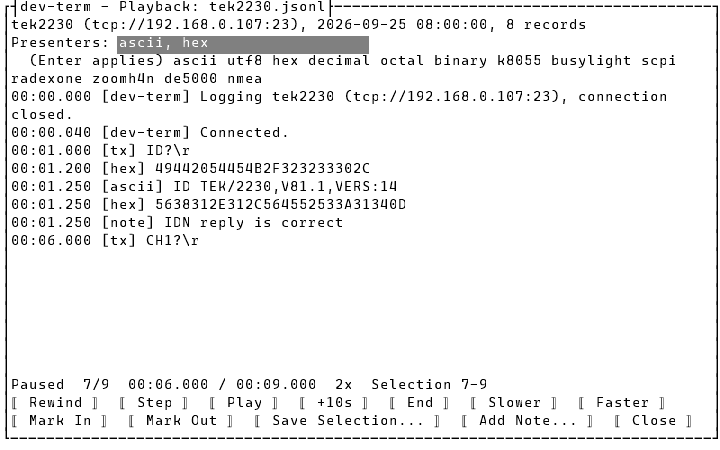
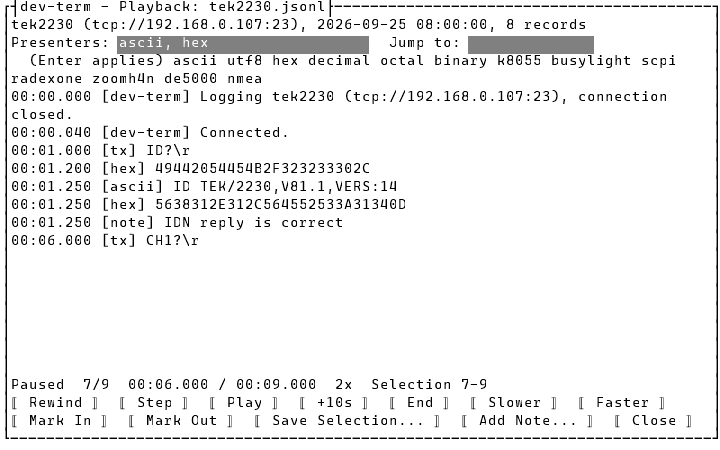
Add a Jump to field (record number or log time) to the TUI Playback window

Changed region(s): [[0.6417, 0.0622, 0.825, 0.1244], [0.55, 0.0933, 0.5806, 0.1244]]

diff --git a/src/DevTerm.Console/PlaybackMode.cs b/src/DevTerm.Console/PlaybackMode.cs
@@ -105,6 +105,8 @@ public static class PlaybackMode
             Width = 28,
             Text = string.Join(", ", controller.Presenters),
         };
+        var jumpLabel = new Label { X = Pos.Right(presentersField) + 2, Y = 1, Text = "Jump to:" };
+        var jumpField = new TextField { X = Pos.Right(jumpLabel) + 1, Y = 1, Width = 14 };
         var availableLabel = new Label
         {
             X = 0,
@@ -259,8 +261,14 @@ public static class PlaybackMode
             e.Handled = true;
         };
 
+        jumpField.Accepting += (_, e) =>
+        {
+            Do(() => controller.JumpTo(jumpField.Text));
+            e.Handled = true;
+        };
+
         window.Add(
-            description, presentersLabel, presentersField, availableLabel, output, positionLabel,
+            description, presentersLabel, presentersField, jumpLabel, jumpField, availableLabel, output, positionLabel,
             rewindButton, stepButton, playButton, forwardButton, endButton, slowerButton, fasterButton,
             markInButton, markOutButton, saveButton, noteButton, closeButton);
 
@@ -279,7 +287,7 @@ public static class PlaybackMode
             }
         }
 
-        return new PlaybackWindowParts(window, controller, output, positionLabel, presentersField, playButton, Pump, Do);
+        return new PlaybackWindowParts(window, controller, output, positionLabel, presentersField, jumpField, playButton, Pump, Do);
     }
 
     /// <summary>A small modal asking for one line of text; <see langword="null"/> if cancelled.</summary>
@@ -322,4 +330,4 @@ public static class PlaybackMode
 }
 
 /// <summary>The Playback window's controls, for tests: <see cref="Pump"/> is one timer tick; <see cref="Do"/> runs an action and renders its batch, exactly as a button does.</summary>
-internal sealed record PlaybackWindowParts(Window Window, PlaybackController Controller, Editor Output, Label PositionLabel, TextField PresentersField, Button PlayButton, Action Pump, Action<Func<PlaybackBatch>> Do);
+internal sealed record PlaybackWindowParts(Window Window, PlaybackController Controller, Editor Output, Label PositionLabel, TextField PresentersField, TextField JumpField, Button PlayButton, Action Pump, Action<Func<PlaybackBatch>> Do);

diff --git a/src/DevTerm.Logging/Playback/PlaybackText.cs b/src/DevTerm.Logging/Playback/PlaybackText.cs
@@ -72,6 +72,56 @@ public static class PlaybackText
         return batch.Items.SelectMany(Lines);
     }
 
+    /// <summary>
+    /// Parses what a jump field accepts: a plain whole number is a record position (0 to the record count),
+    /// anything with a colon is a log time as <c>m:ss</c>, <c>m:ss.fff</c> or <c>h:mm:ss.fff</c> (the same shape
+    /// <see cref="FormatOffset"/> prints). Returns <see langword="false"/> for anything else, never throws.
+    /// </summary>
+    public static bool TryParseJump(string? text, out int? record, out TimeSpan? time)
+    {
+        record = null;
+        time = null;
+        var trimmed = text?.Trim();
+        if (string.IsNullOrEmpty(trimmed))
+        {
+            return false;
+        }
+
+        if (!trimmed.Contains(':', StringComparison.Ordinal))
+        {
+            if (int.TryParse(trimmed, NumberStyles.None, CultureInfo.InvariantCulture, out var position))
+            {
+                record = position;
+                return true;
+            }
+
+            return false;
+        }
+
+        var parts = trimmed.Split(':');
+        if (parts.Length is < 2 or > 3
+            || !int.TryParse(parts[^2], NumberStyles.None, CultureInfo.InvariantCulture, out var minutes)
+            || !decimal.TryParse(parts[^1], NumberStyles.AllowDecimalPoint, CultureInfo.InvariantCulture, out var seconds)
+            || seconds >= 60)
+        {
+            return false;
+        }
+
+        var hours = 0;
+        if (parts.Length == 3 && !int.TryParse(parts[0], NumberStyles.None, CultureInfo.InvariantCulture, out hours))
+        {
+            return false;
+        }
+
+        if (parts.Length == 3 && minutes >= 60)
+        {
+            return false;
+        }
+
+        time = TimeSpan.FromHours(hours) + TimeSpan.FromMinutes(minutes) + TimeSpan.FromMilliseconds((double)(seconds * 1000m));
+        return true;
+    }
+
     public static string FormatOffset(TimeSpan offset) =>
         offset.TotalHours >= 1
             ? $"{((int)offset.TotalHours).ToString(CultureInfo.InvariantCulture)}:{offset.ToString(@"mm\:ss\.fff", CultureInfo.InvariantCulture)}"

diff --git a/tests/DevTerm.Logging.Tests/PlaybackControllerTests.cs b/tests/DevTerm.Logging.Tests/PlaybackControllerTests.cs
@@ -58,6 +58,45 @@ public sealed class PlaybackControllerTests
     }
 
     [TestMethod]
+    public void JumpTo_ARecordNumber_SeeksToThatPosition_AndClampsPastTheEnd()
+    {
+        var controller = Open();
+
+        controller.JumpTo("4");
+        Assert.AreEqual(4, controller.Engine.Position);
+
+        controller.JumpTo("99");
+        Assert.AreEqual(6, controller.Engine.Position);
+
+        var back = controller.JumpTo("1");
+        Assert.IsTrue(back.Reset, "A backward jump replays from the start.");
+        Assert.AreEqual(1, controller.Engine.Position);
+    }
+
+    [TestMethod]
+    public void JumpTo_ATime_PlaysEveryRecordAtOrBeforeIt()
+    {
+        var controller = Open();
+
+        controller.JumpTo("0:02.5");
+        Assert.AreEqual(3, controller.Engine.Position, "Records at 0, 1 and 2 seconds are at or before 2.5 s.");
+
+        controller.JumpTo("0:05");
+        Assert.AreEqual(6, controller.Engine.Position);
+    }
+
+    [TestMethod]
+    public void JumpTo_Gibberish_ThrowsAFormatExceptionNamingTheText()
+    {
+        var controller = Open();
+
+        var ex = Assert.Throws<FormatException>(() => controller.JumpTo("soon"));
+
+        Assert.Contains("'soon'", ex.Message);
+        Assert.AreEqual(0, controller.Engine.Position, "A rejected jump doesn't move.");
+    }
+
+    [TestMethod]
     public void SetPresenters_IgnoresUnknownNames_AndReplaysThroughTheNewOnes()
     {
         var controller = Open();

diff --git a/tests/DevTerm.Console.Tests/PlaybackModeTests.cs b/tests/DevTerm.Console.Tests/PlaybackModeTests.cs
@@ -3,6 +3,7 @@ using DevTerm.Configuration;
 using DevTerm.Logging;
 using DevTerm.Logging.Playback;
 using DevTerm.Test.Utilities;
+using Terminal.Gui.Input;
 
 namespace DevTerm.Console.Tests;
 
@@ -143,6 +144,23 @@ public sealed class PlaybackModeTests
             Assert.AreEqual("hex, ascii", parts.PresentersField.Text);
             Assert.Contains("[hex] 49442054454B2F323233302C", parts.Output.Text);
             Assert.StartsWith("Paused  4/8", parts.PositionLabel.Text);
+        });
+    }
+
+    [TestMethod]
+    public void JumpField_AcceptingARecordNumber_SeeksThere_AndATimeJumpPlaysUpToIt()
+    {
+        var controller = new PlaybackPresenters().Open(WriteSampleLog(_directory), new ManualTimeProvider());
+
+        RunWindow(controller, parts =>
+        {
+            parts.JumpField.Text = "4";
+            parts.JumpField.InvokeCommand(Command.Accept);
+
+            Assert.StartsWith("Paused  4/8", parts.PositionLabel.Text);
+
+            parts.Do(() => controller.JumpTo("0:00.000"));
+            Assert.StartsWith("Paused  1/8", parts.PositionLabel.Text, "A time jump plays every record at or before it.");
         });
     }
 

diff --git a/tests/DevTerm.Logging.Tests/PlaybackTextTests.cs b/tests/DevTerm.Logging.Tests/PlaybackTextTests.cs
@@ -24,6 +24,31 @@ public sealed class PlaybackTextTests
     }
 
     [TestMethod]
+    [DataRow("120", 120, null)]
+    [DataRow("  7 ", 7, null)]
+    [DataRow("1:23", null, 83000)]
+    [DataRow("0:02.5", null, 2500)]
+    [DataRow("1:02:03.250", null, 3723250)]
+    public void TryParseJump_ReadsRecordNumbersAndTimes(string text, int? record, int? timeMs)
+    {
+        Assert.IsTrue(PlaybackText.TryParseJump(text, out var parsedRecord, out var parsedTime));
+        Assert.AreEqual(record, parsedRecord);
+        Assert.AreEqual(timeMs is { } ms ? TimeSpan.FromMilliseconds(ms) : null, parsedTime);
+    }
+
+    [TestMethod]
+    [DataRow("")]
+    [DataRow("  ")]
+    [DataRow("-3")]
+    [DataRow("abc")]
+    [DataRow("1:75")]
+    [DataRow("1:2:3:4")]
+    [DataRow("1:61:00")]
+    [DataRow("x:10")]
+    public void TryParseJump_RejectsAnythingElse(string text) =>
+        Assert.IsFalse(PlaybackText.TryParseJump(text, out _, out _));
+
+    [TestMethod]
     public void FormatOffset_UnderOneHour_UsesMinutesAndSeconds()
     {
         var text = PlaybackText.FormatOffset(new TimeSpan(0, 0, 1, 2, 300));

diff --git a/src/DevTerm.Logging/Playback/PlaybackController.cs b/src/DevTerm.Logging/Playback/PlaybackController.cs
@@ -133,6 +133,17 @@ public sealed class PlaybackController
 
     public PlaybackBatch SeekTo(int position) => Engine.SeekTo(position);
 
+    /// <summary>Jumps to what <see cref="PlaybackText.TryParseJump"/> accepts: a record position or a log time. Throws <see cref="FormatException"/> for text it can't read.</summary>
+    public PlaybackBatch JumpTo(string text)
+    {
+        if (!PlaybackText.TryParseJump(text, out var record, out var time))
+        {
+            throw new FormatException($"'{text}' isn't a record number (e.g. 120) or a time (e.g. 1:23.5).");
+        }
+
+        return record is { } position ? Engine.SeekTo(position) : Engine.SeekToTime(time!.Value);
+    }
+
     public void SetSpeed(PlaybackSpeed speed)
     {
         ArgumentNullException.ThrowIfNull(speed);

diff --git a/src/DevTerm.Logging/Playback/PlaybackEngine.cs b/src/DevTerm.Logging/Playback/PlaybackEngine.cs
@@ -220,6 +220,18 @@ public sealed class PlaybackEngine
         return new PlaybackBatch(reset, items);
     }
 
+    /// <summary>Seeks to the first position whose next record is later than <paramref name="offset"/>, i.e. plays every record at or before that log time. Backward works like <see cref="SeekTo"/>.</summary>
+    public PlaybackBatch SeekToTime(TimeSpan offset)
+    {
+        var position = 0;
+        while (position < Count && Log.OffsetOf(position) <= offset)
+        {
+            position++;
+        }
+
+        return SeekTo(position);
+    }
+
     /// <summary>Skips ahead <paramref name="amount"/> of log time, playing every record in that span instantly.</summary>
     public PlaybackBatch FastForward(TimeSpan amount)
     {

diff --git a/docs/specs/playback-window.md b/docs/specs/playback-window.md
@@ -34,6 +34,7 @@ warning is its first output line.
 | Output | TUI: read-only `Editor`, last 300 lines. WPF: `ListBox` of `PlaybackLine`, last 1000 | `{mm:ss.fff} [{source}] {text}` per line, where the offset is from the first record. `[ascii]`/`[hex]`/… is received data as that presenter rendered it. `[tx]` is sent bytes, escaped (`\r`, `\n`, `\t`, `\\`, `\xNN`). `[dev-term]` is an event (`Connected.`, `Disconnected.`, `Logging {connection}, connection open` or `closed`). `[error]` is a lost connection or a presenter failure. `[note]` is a note. WPF colors them by theme role: sent in `accent` (steel blue in Light), events italic in `outputStatus`, errors in `outputError`, notes bold in `warning` (see [`docs/design/theming.md`](../design/theming.md)) |
 | Position | Label | `{Playing/Paused/End}  {position}/{count}  {elapsed} / {duration}  {speed}  Selection {in}–{out}`. The position is how many records have played |
 | Seek slider | WPF only, `0`–`count` | Dragging or clicking seeks (see **Seek**) |
+| Jump to | TUI only: text field right of Presenters | A record number (`120`) or a log time (`1:23`, `0:02.5`, `1:02:03.250`). Enter jumps. Anything else shows an error dialog and doesn't move |
 | Speed | TUI: **Slower**/**Faster** buttons stepping through the list. WPF: a combo box | 0.25x, 0.5x, **1x** (default), 2x, 10x, Max |
 | Note | WPF only: a text box next to **Add Note** | Enter adds it. The TUI prompts instead |
 
@@ -47,6 +48,7 @@ warning is its first output line.
 | **+10s** (fast-forward) | Plays everything in the next 10 s of log time instantly, and always at least one record | n/a |
 | **End** | Plays everything that's left instantly, then pauses | n/a |
 | **Seek** (WPF slider) | Forward plays the records in between instantly. Backward clears the output and replays from 0. Either way, stateful presenters end up exactly where live capture left them | n/a |
+| **Jump to** (TUI field) | A record number seeks to that position; a time plays every record at or before that log time. Forward plays the records in between instantly; backward clears and replays from 0, like **Seek** | Unreadable text shows an error dialog; the position is unchanged |
 | **Presenters** (TUI: edit + Enter; WPF: tick/untick) | Clears the output and replays up to the current position through the new set | Unknown names are ignored. An empty choice keeps the current set |
 | **Speed** | Applies from now on. Progress through the current gap is kept | n/a |
 | **Mark In** | The trim selection starts at the current position (the next record to play) | n/a |
@@ -84,4 +86,4 @@ warning is its first output line.
 - Notes can be added but not edited or deleted here.
 - No "skip silence" (capping long idle gaps) yet.
 - Backward seeks replay from the start, so they get slower as the log grows.
-- The TUI has no seek control besides Rewind/+10s/End/Step. **Decided 2026-10-03:** add a jump-to-time-or-record field. Not built yet.
+- ~~The TUI has no seek control besides Rewind/+10s/End/Step.~~ Added 2026-10-03: the **Jump to** field.

diff --git a/docs/changes/2026-10-03.md b/docs/changes/2026-10-03.md
@@ -235,3 +235,7 @@ The user reported TDS2024 `HARDCopy` giving a BMP, a DG1062Z screen capture, Bus
 ## Connection Editor shows the device manifest and SCPI auto-detect timeout
 
 The two saved-profile settings the editor used to carry over untouched are now fields (decided 2026-10-03): **Device manifest** (General, free text, blank means none) and **SCPI auto-detect timeout (ms)** (Presentation, integer 100 to 60000, shown only when the SCPI presenter is selected). Both go through the generated form, so the TUI and WPF pick them up with no front-end code; `BuildOptions` now writes them instead of copying the loaded values, and `Validate` rejects a non-numeric timeout. New test `ManifestNameAndScpiAutoDetectTimeout_RoundTripThroughTheFields`; the form-layout test expectations were updated. Configuration tests 486 pass, console unit tests 420 pass. The TUI configure screenshots were regenerated (image-diff showed only the new row, plus the older vxi11 option the baselines predated). Not done: the WPF tests and screenshots, because a running `DevTerm.Wpf.exe` locks the build output; they will regenerate next run. `tui-main-logging.png` also differed by 1,321 pixels in one band (not from this change), and was left at its committed version.
+
+## TUI Playback jump-to-time-or-record field
+
+The Playback window has a **Jump to** field beside Presenters (decided 2026-10-03). A plain number seeks to that record position; `m:ss`, `m:ss.fff` or `h:mm:ss.fff` plays every record at or before that log time (`PlaybackText.TryParseJump`, `PlaybackEngine.SeekToTime`, `PlaybackController.JumpTo`). Unreadable text raises `FormatException`, which the window shows in its normal error dialog. Tests: 3 controller, 2 parse (data-driven), 1 window. `tui-playback.png`/`.txt` regenerated; `image_diff.py` reported only the new label and field (bounding box 389,36 to 594,54). The WPF slider is unchanged.

diff --git a/BACKLOG.md b/BACKLOG.md
@@ -71,7 +71,6 @@ the rest.
 - **Stream Monitor filter, search and sort** by device, content type and time, in one list ([stream-monitor spec](docs/specs/stream-monitor.md)).
 - **Per-module destructive-command confirmation**, declared in a manifest or profile ([device-control-modules](docs/design/device-control-modules.md)).
 - **Chart hover readout, table view and history export** ([spec](docs/specs/device-control-panel.md)).
-- **TUI Playback jump-to-time-or-record field** ([spec](docs/specs/playback-window.md)).
 - **TUI terminal-palette theme, and a live-following `system` theme** ([theming](docs/design/theming.md)).
 - **Third-party plugins out of process, with user approval** (optionally once per hash) ([plugin-model](docs/design/plugin-model.md)); **optional structured-message model** ([presenters](docs/design/presenters.md)); **manifest-declared reply correlation** ([device-control-modules](docs/design/device-control-modules.md)); **indexed, streamed log playback** ([session-logging](docs/design/session-logging.md)).
 - **TUI "Send as" menu follows the active tab** ([tui-main-screen spec](docs/specs/tui-main-screen.md)).
